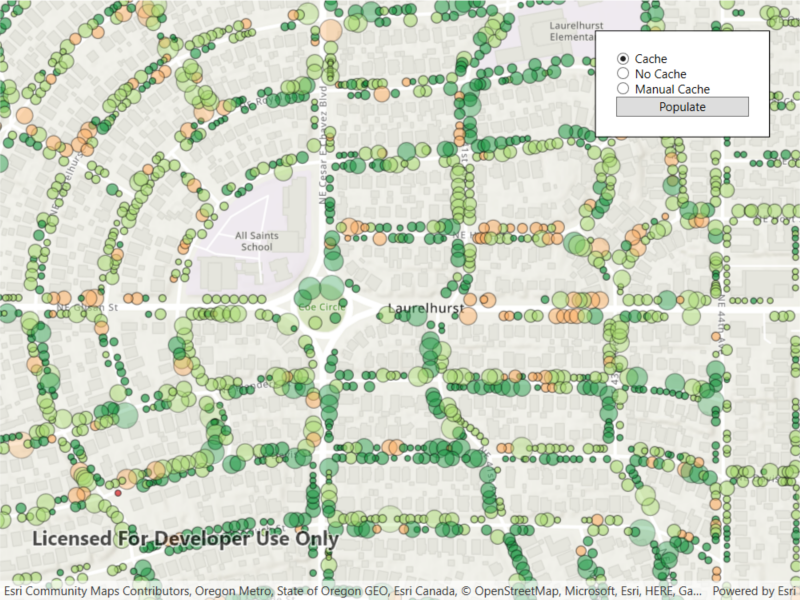
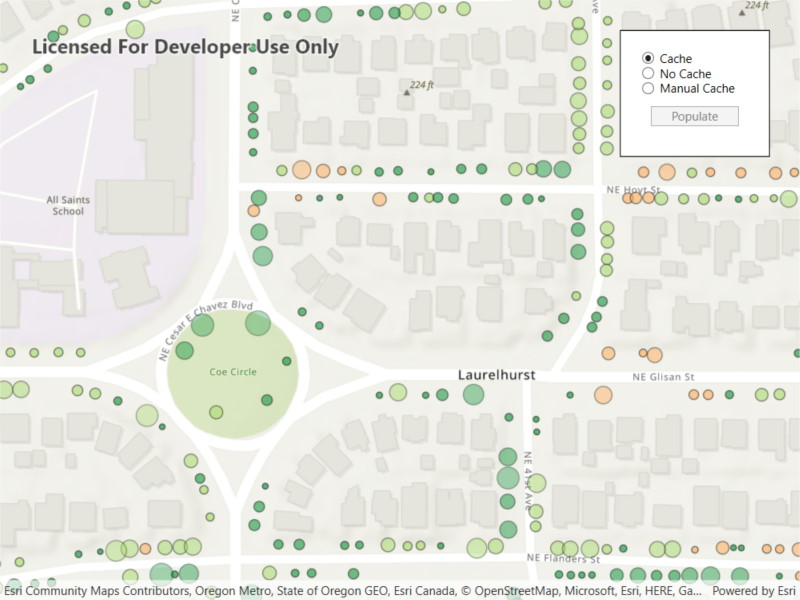
Updated screenshot and UI

diff --git a/src/WPF/ArcGISRuntime.WPF.Viewer/Samples/Data/ToggleBetweenFeatureRequestModes/ToggleBetweenFeatureRequestModes.xaml b/src/WPF/ArcGISRuntime.WPF.Viewer/Samples/Data/ToggleBetweenFeatureRequestModes/ToggleBetweenFeatureRequestModes.xaml
@@ -4,7 +4,7 @@
              xmlns:esri="http://schemas.esri.com/arcgis/runtime/2013">
     <Grid>
         <esri:MapView x:Name="MyMapView" />
-        <Border Width="175"
+        <Border Width="150"
                 Height="auto"
                 Style="{StaticResource BorderStyle}">
             <StackPanel>
@@ -18,6 +18,7 @@
                              Checked="ManualCacheChecked"
                              Content="Manual Cache" />
                 <Button x:Name="PopulateMap"
+                        Margin="10"
                         Click="PopulateButtonClick"
                         Content="Populate"
                         IsEnabled="False" />

diff --git a/src/WinUI/ArcGISRuntime.WinUI.Viewer/Samples/Data/ToggleBetweenFeatureRequestModes/ToggleBetweenFeatureRequestModes.xaml b/src/WinUI/ArcGISRuntime.WinUI.Viewer/Samples/Data/ToggleBetweenFeatureRequestModes/ToggleBetweenFeatureRequestModes.xaml
@@ -21,7 +21,8 @@
                 <Button x:Name="PopulateMap"
                         Click="PopulateButtonClick"
                         Content="Populate"
-                        IsEnabled="False" />
+                        IsEnabled="False"
+                        Margin="5" />
             </StackPanel>
         </Border>
     </Grid>
